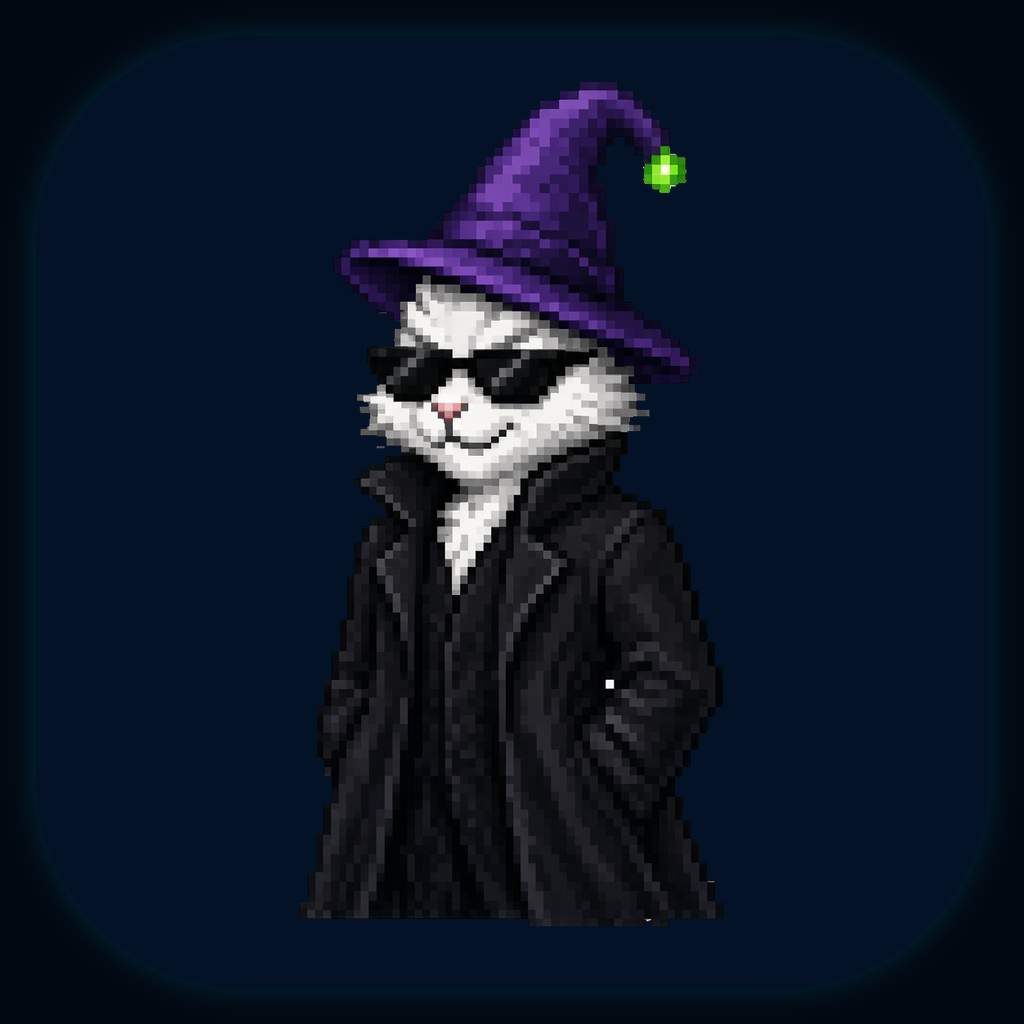
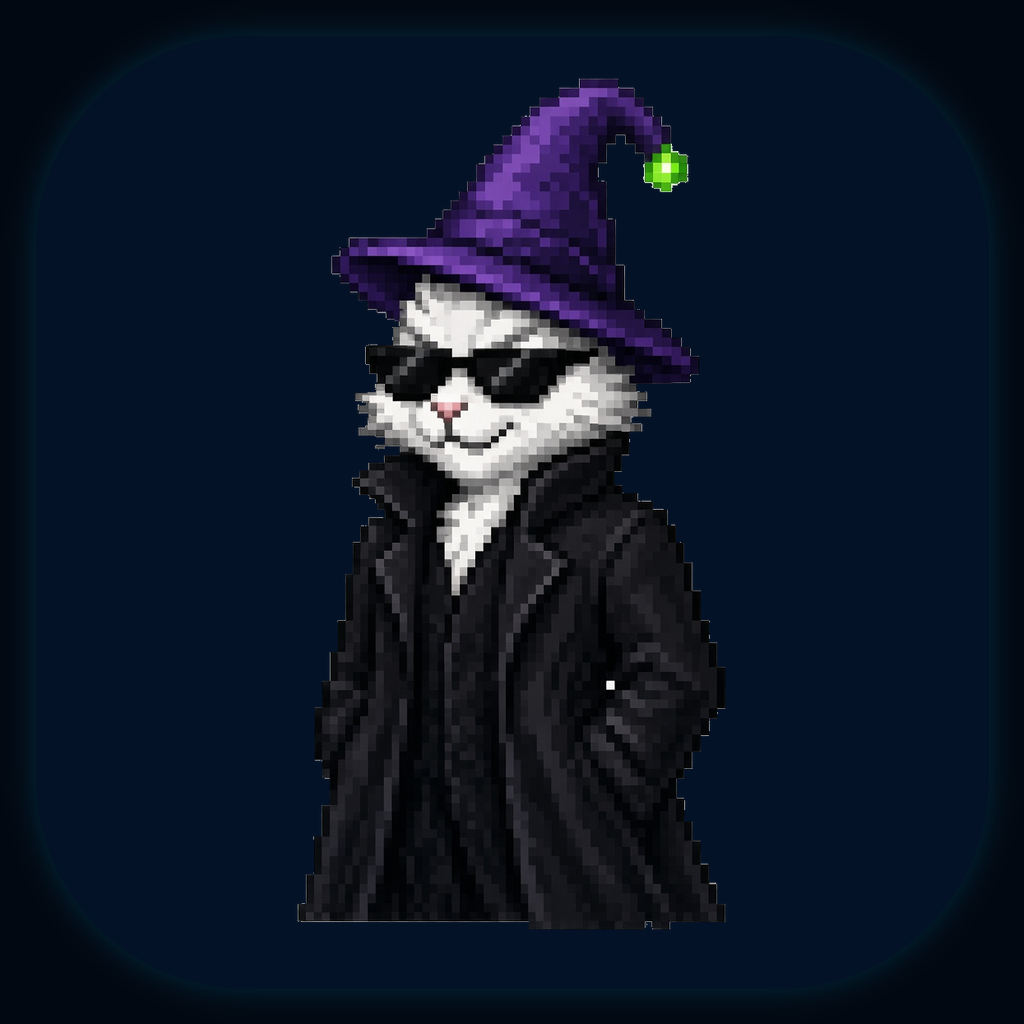
Tighten mascot alpha cutout (no checker fringe)
Re-run edge-connected keying and clear splash CSS so the logo
renders without a chequered plate on boot or thumbnails.

diff --git a/src/renderer/src/shell/boot-splash.css b/src/renderer/src/shell/boot-splash.css
@@ -40,8 +40,13 @@
   width: clamp(7.5rem, 16vw, 11rem);
   height: auto;
   object-fit: contain;
+  background: transparent;
+  border: 0;
+  box-shadow: none;
   filter: drop-shadow(0 0 28px rgba(0, 210, 255, 0.4));
   animation: boot-rise 0.7s ease-out both;
+  /* keep pixel mascot crisp */
+  image-rendering: pixelated;
 }
 
 .boot-splash-copy {
